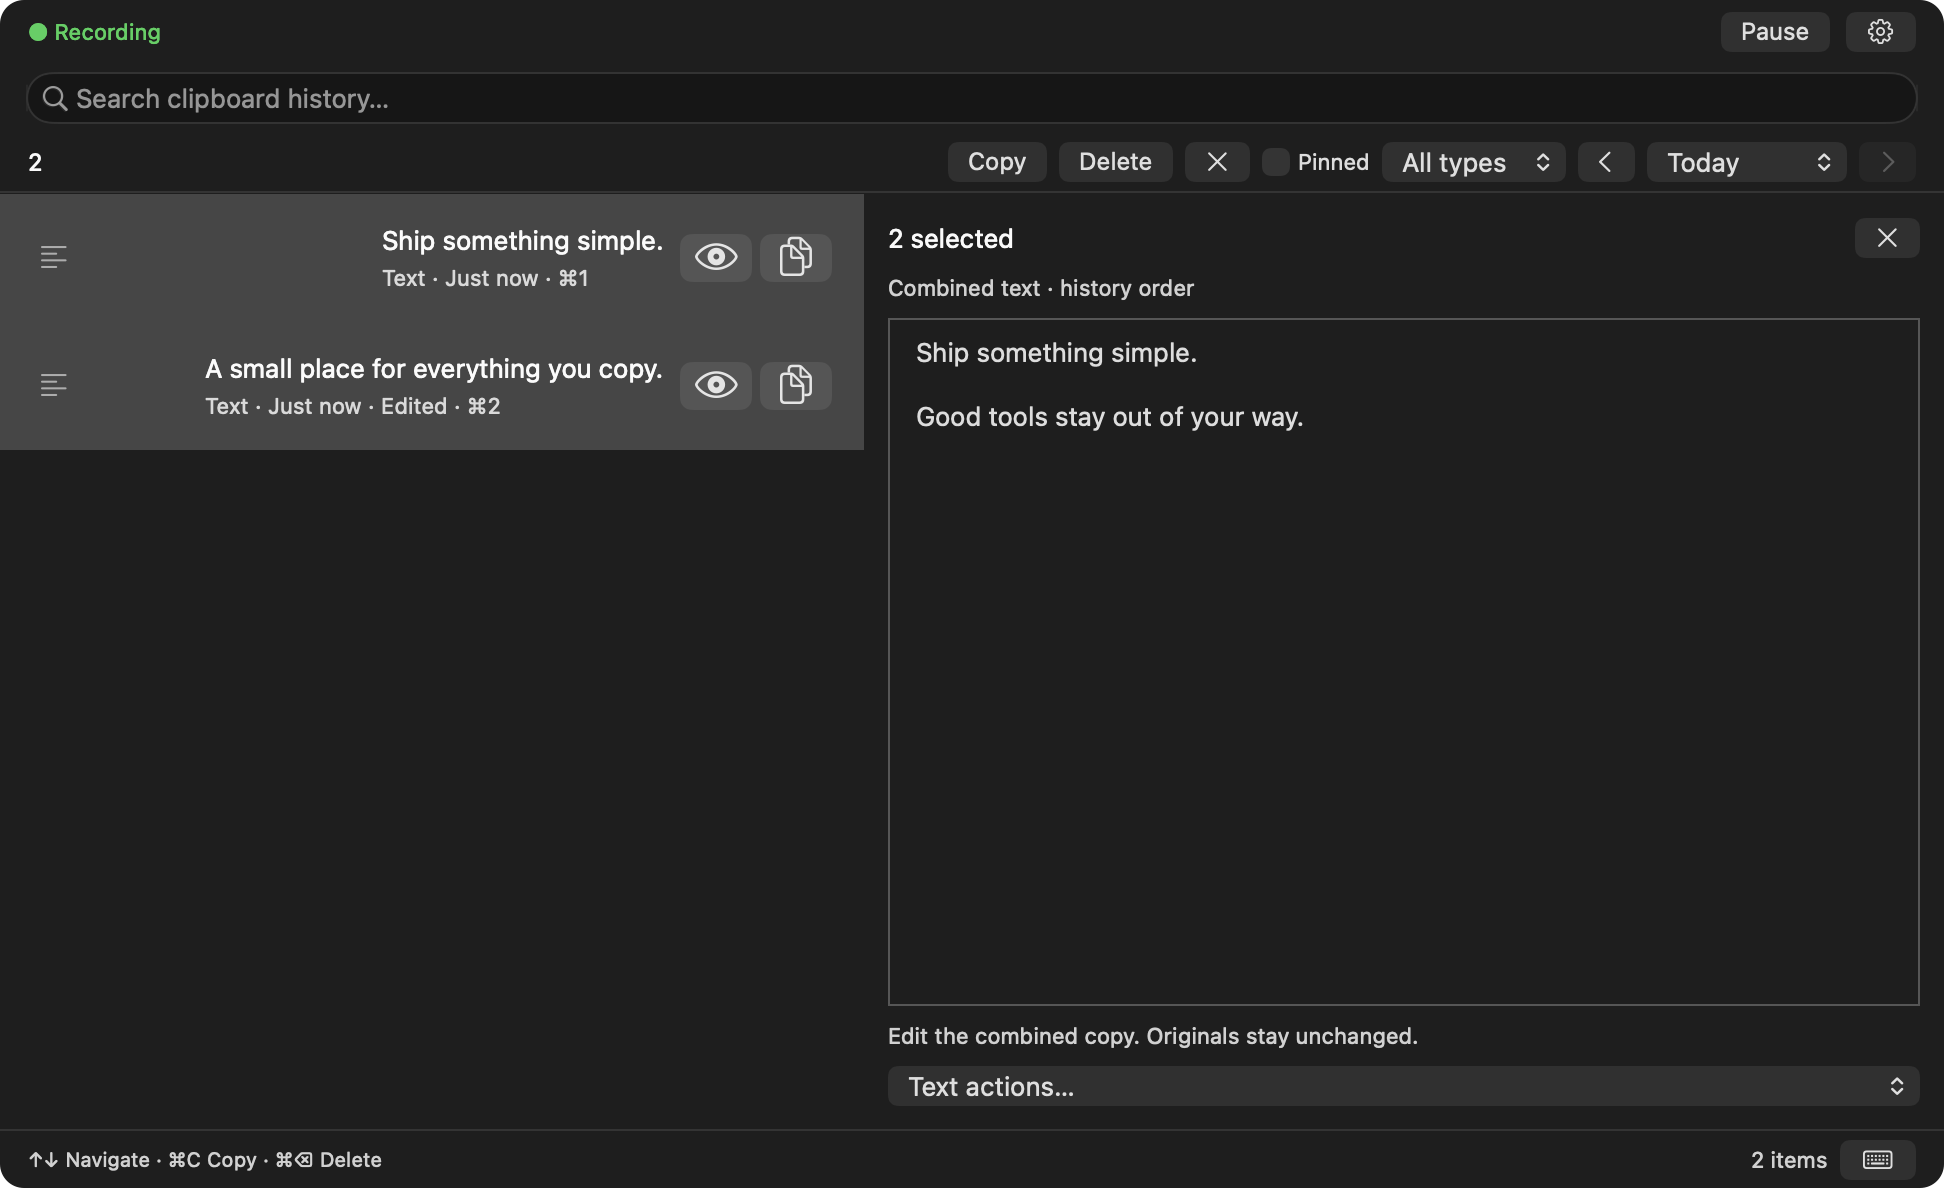
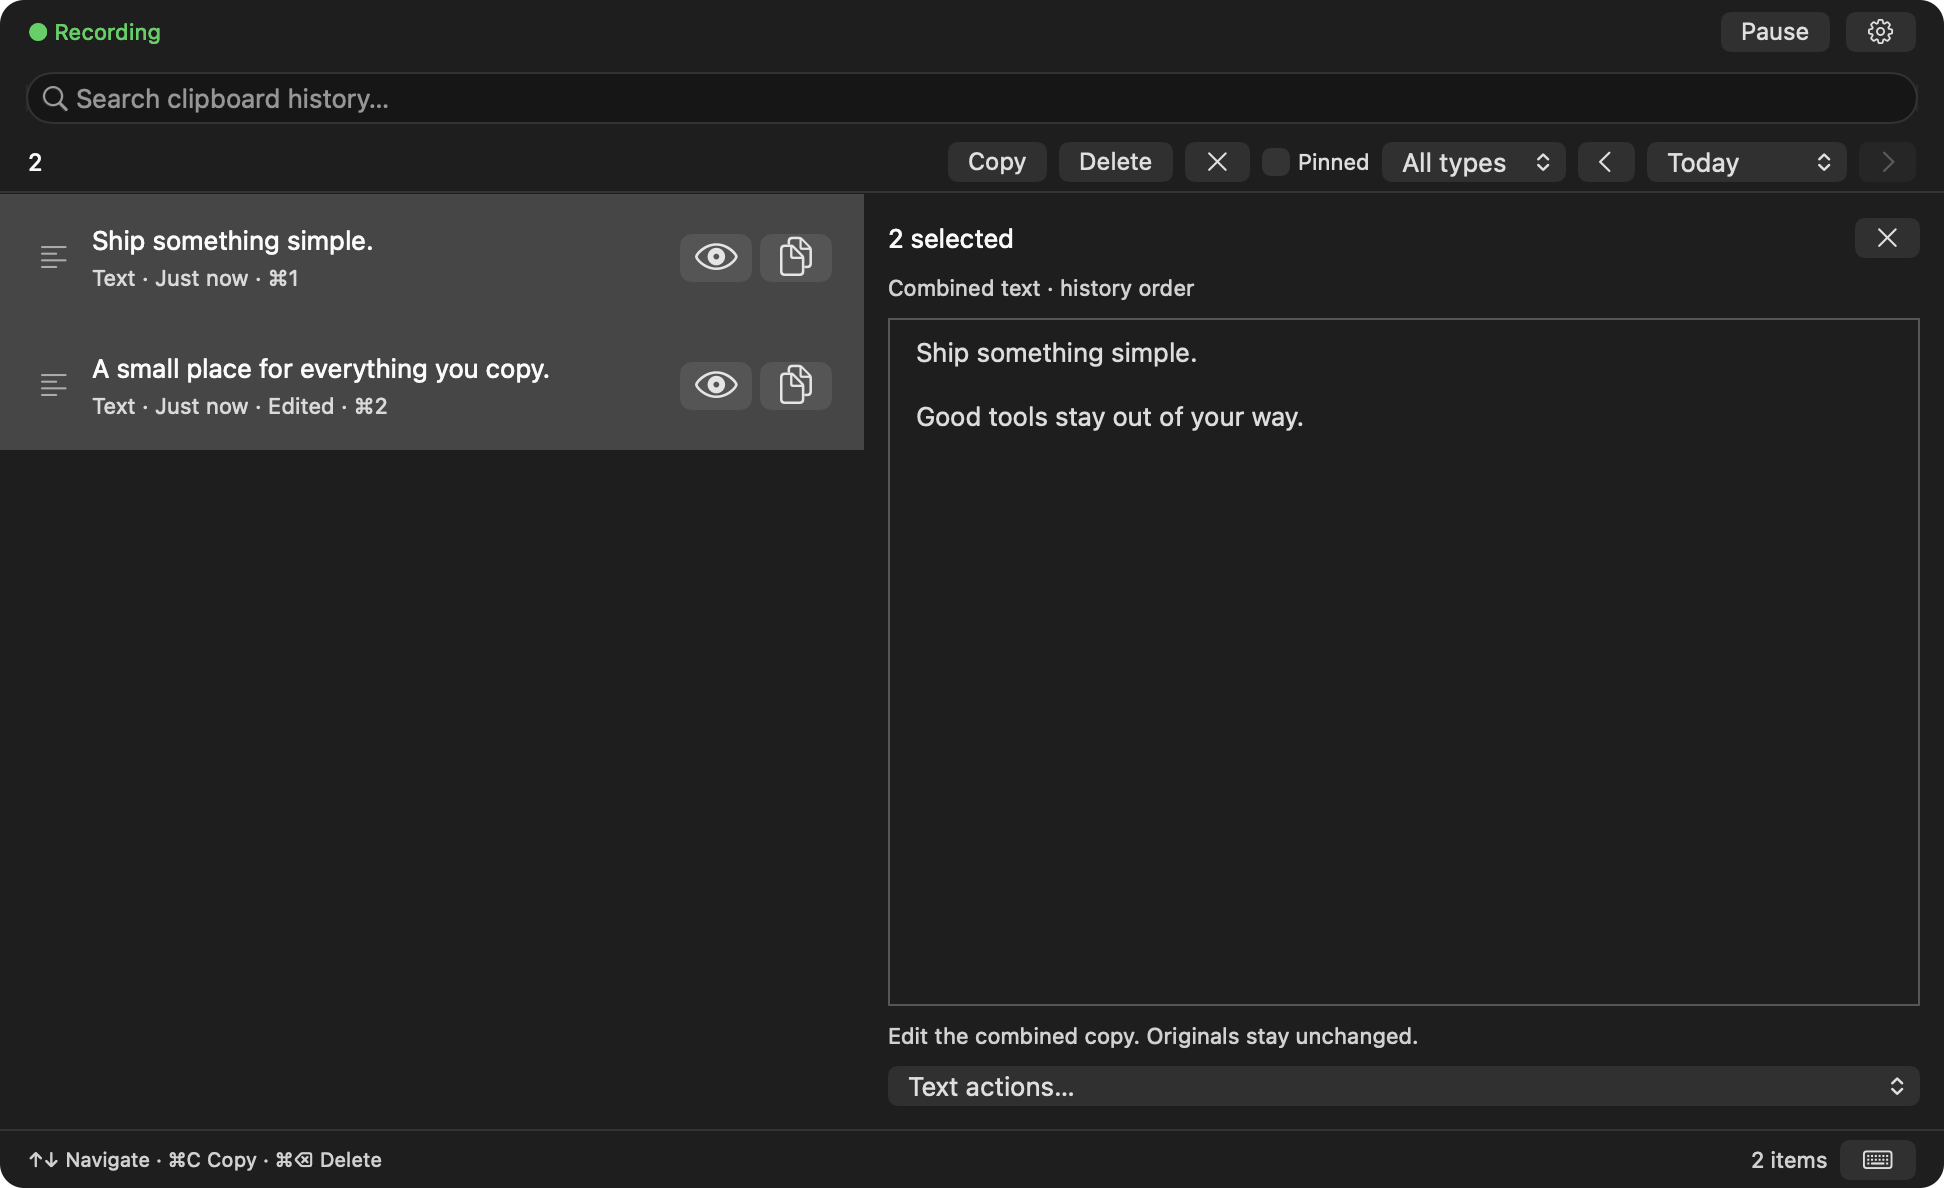
Release v1.0.7 fixing thumbnail and short-label row spacing

Changed region(s): [[0.0617, 0.2803, 0.3395, 0.3737], [0.0309, 0.1869, 0.3395, 0.2492]]

diff --git a/ClipboardApp/UIHelpers.swift b/ClipboardApp/UIHelpers.swift
@@ -75,6 +75,7 @@ import AppKit
         thumbnail.translatesAutoresizingMaskIntoConstraints = false
         NSLayoutConstraint.activate([thumbnail.widthAnchor.constraint(equalToConstant: 64), thumbnail.heightAnchor.constraint(equalToConstant: 48)])
         let visual = row([icon, thumbnail], spacing: 0)
+        visual.setHuggingPriority(.required, for: .horizontal)
         let text = NSStackView(views: [titleLabel, metadataLabel]); text.orientation = .vertical; text.alignment = .leading; text.spacing = 4
         for (button, name) in [(previewButton, "Preview"), (copyButton, "Copy")] {
             button.setAccessibilityLabel(name); button.toolTip = name
@@ -84,6 +85,7 @@ import AppKit
             NSLayoutConstraint.activate([button.widthAnchor.constraint(equalToConstant: 36), button.heightAnchor.constraint(equalToConstant: 36)])
         }
         let actions = row([previewButton, copyButton], spacing: 4)
+        actions.setHuggingPriority(.required, for: .horizontal)
         for view in [visual, text, actions] {
             addSubview(view)
             view.translatesAutoresizingMaskIntoConstraints = false

diff --git a/Tests/PlatformTests/PlatformTests.swift b/Tests/PlatformTests/PlatformTests.swift
@@ -135,6 +135,9 @@ import ClipboardCore
                     let copy = cell.copyButton.convert(cell.copyButton.bounds, to: cell)
                     let preview = cell.previewButton.convert(cell.previewButton.bounds, to: cell)
                     let title = cell.titleLabel.convert(cell.titleLabel.bounds, to: cell)
+                    let visual = showsThumbnail ? cell.thumbnail : cell.icon
+                    let visualFrame = visual.convert(visual.bounds, to: cell)
+                    XCTAssertEqual(title.minX + cell.titleLabel.alignmentRectInsets.left, visualFrame.maxX + 8, accuracy: 1)
                     XCTAssertEqual(copy.maxX, width - 10, accuracy: 1)
                     XCTAssertLessThanOrEqual(preview.maxX, copy.minX)
                     XCTAssertLessThanOrEqual(title.maxX, preview.minX)

diff --git a/VERIFICATION.md b/VERIFICATION.md
@@ -104,3 +104,7 @@ Validation: 30 core and 36 platform tests pass, including stable paging during n
 The popup defaults to Today on initialization and each reopening. Previous/next-day controls navigate Yesterday and any earlier calendar day; forward navigation stops at Today. The existing dropdown retains All history and other ranges. Explicit-day queries use inclusive start/exclusive next-midnight bounds against the existing date index, shared by paging and ordered selection. Calendar arithmetic handles local day lengths. This filters display only and does not delete older entries.
 
 Validation: 31 core and 37 platform tests pass, including exact midnight bounds, existing daylight-saving coverage, Today → Yesterday → earlier day → Today navigation, All history access, and resetting to Today on reopening. Native popup renders include the new day controls. No additional performance improvement is claimed without measurement.
+
+## v1.0.7 row spacing
+
+The thumbnail/icon and action stacks now use required horizontal stack hugging, leaving flexible width to the text region. The regression reproduced excessive gaps before the fix and passes afterward across three cell widths, short/long labels, and thumbnail/icon visibility changes. All 31 core and 37 platform tests and the local Release build pass. Native image fixture output was visually inspected.

diff --git a/README.md b/README.md
@@ -4,7 +4,7 @@ A small, native clipboard manager for macOS. Find what you copied, edit it, and 
 
 **macOS 14+ · Apple Silicon & Intel · Swift + AppKit · MIT**
 
-[Download v1.0.6](https://github.com/aagzamov-dev/Clipboard_macos/releases/tag/v1.0.6) · [All releases](https://github.com/aagzamov-dev/Clipboard_macos/releases) · [Report an issue](https://github.com/aagzamov-dev/Clipboard_macos/issues)
+[Download v1.0.7](https://github.com/aagzamov-dev/Clipboard_macos/releases/tag/v1.0.7) · [All releases](https://github.com/aagzamov-dev/Clipboard_macos/releases) · [Report an issue](https://github.com/aagzamov-dev/Clipboard_macos/issues)
 
 ![Clipboard with an editable combined preview](docs/screenshots/text-preview.png)
 
@@ -34,7 +34,7 @@ Built with AppKit and system SQLite. [Sparkle](https://sparkle-project.org) hand
 
 ## Install
 
-1. Download **Clipboard-v1.0.6-universal.dmg** from the [release](https://github.com/aagzamov-dev/Clipboard_macos/releases/tag/v1.0.6).
+1. Download **Clipboard-v1.0.7-universal.dmg** from the [release](https://github.com/aagzamov-dev/Clipboard_macos/releases/tag/v1.0.7).
 2. Open it and drag **Clipboard.app** into **Applications**. A ZIP is also available.
 3. Launch Clipboard and choose **Start local history**. Recording starts automatically on future launches.
 

diff --git a/docs/releases/v1.0.7.md b/docs/releases/v1.0.7.md
@@ -1,0 +1,11 @@
+# Clipboard 1.0.7
+
+Fix the large empty space between image thumbnails and their labels. Short text labels now also stay beside their icons, while Preview and Copy remain aligned to the right edge. The fix applies across popup widths and reused image/text rows.
+
+Choose **Check for Updates…** in Clipboard to install and restart. History and preferences are preserved. Universal Apple Silicon/Intel downloads support macOS 14 and newer. The existing updater signing key is unchanged; bundle build is 10.
+
+## Verification and signing
+
+All 31 core and 37 platform tests pass locally, including the regression that reproduces the misplaced labels and checks spacing across row widths, short/long text, and thumbnail/icon changes. The native fixture render was visually checked, and the local Release build passed. Release validation compiles fixture UI tests, packages universal ZIP/DMG assets, and verifies update signatures with tamper rejection.
+
+This release remains **ad-hoc signed, not Developer ID signed or notarized**. macOS may require renewing the app’s Accessibility grant after updating. Live destination-app acceptance, full OS/hardware coverage, and Instruments performance measurements remain unverified as described in VERIFICATION.md.

diff --git a/CHANGELOG.md b/CHANGELOG.md
@@ -1,5 +1,10 @@
 # Changelog
 
+## [1.0.7] — 2026-10-25
+
+- Fix stretched row containers that left large gaps after image thumbnails and short text icons; keep Preview and Copy aligned to the trailing edge.
+- Add spacing regression coverage across row widths, text lengths, and reused thumbnail/icon states.
+
 ## [1.0.6] — 2026-10-25
 
 - Default to Today with previous/next-day navigation and access to All history.
